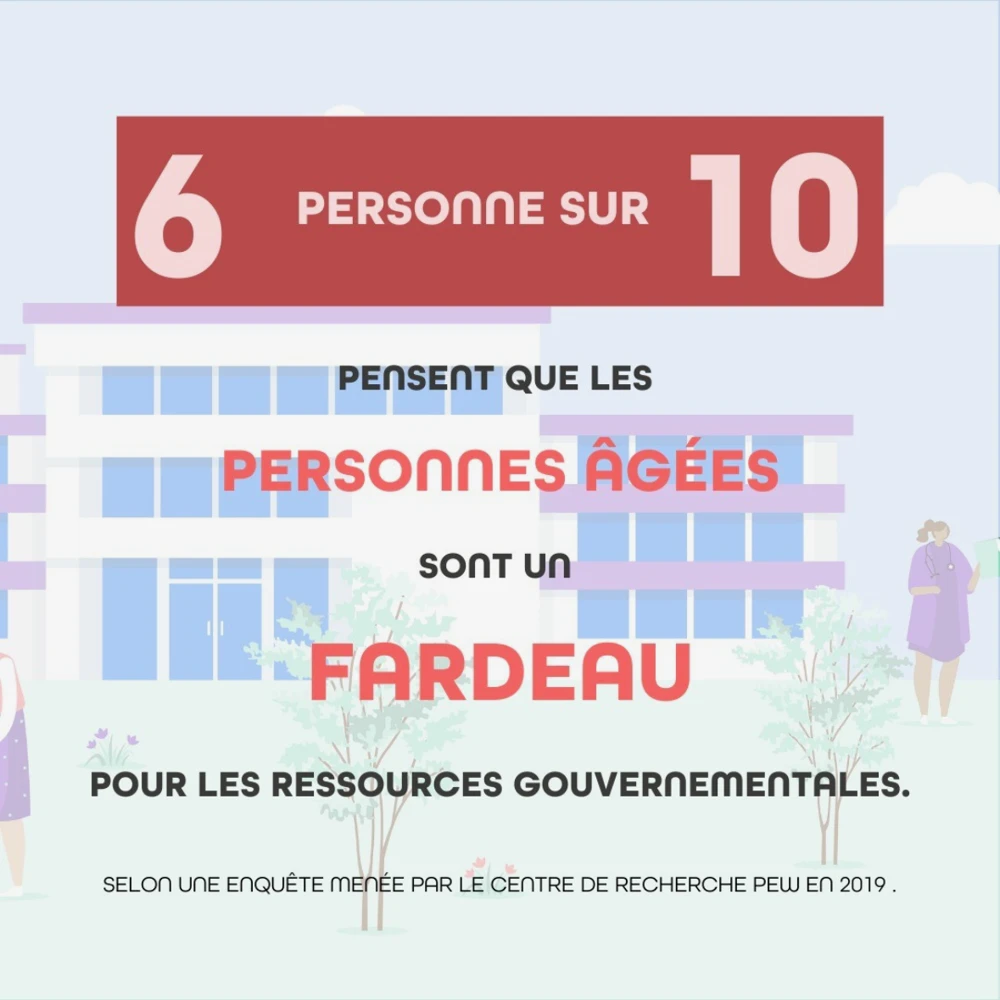
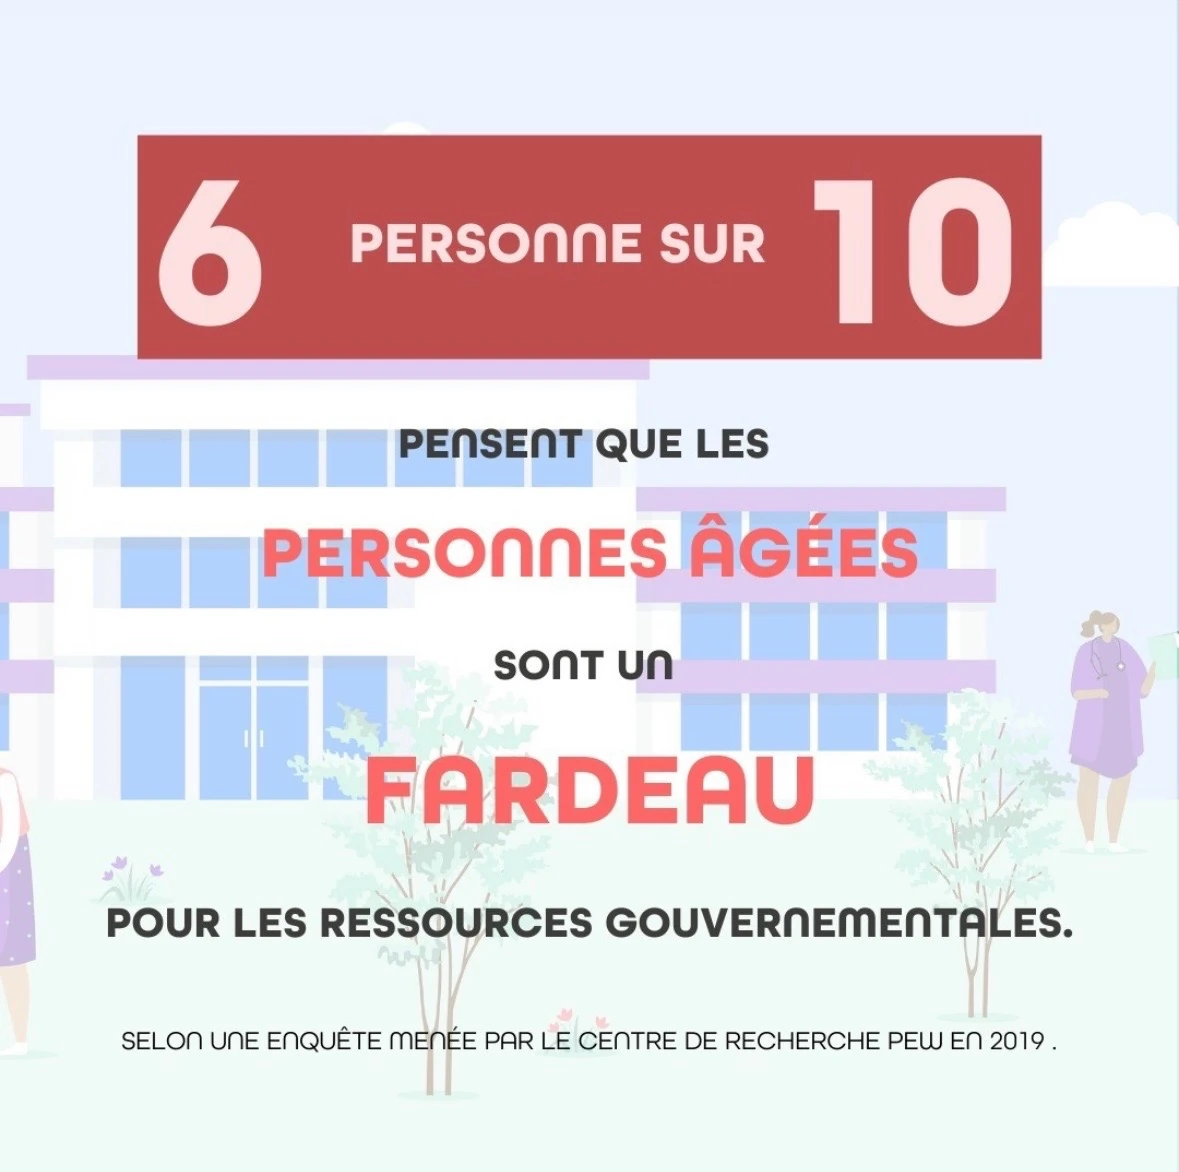
Replace ageism carousel with clean crops and remove slide counter

diff --git a/style.css b/style.css
@@ -91,7 +91,7 @@ main:has(>#contact){display:flex;flex-direction:column}
 .skill-button:focus-visible{outline:3px solid #b26379;outline-offset:3px;box-shadow:0 0 0 6px #f6e4e8}
 @media(prefers-reduced-motion:reduce){.skill-button{transition:none}.skill-button:hover{transform:none;box-shadow:4px 4px 0 #8da47c;outline:2px dashed #617854;outline-offset:2px}.skill-button:active,.skill-button.is-pressed{transform:none;box-shadow:inset 0 0 0 2px #435f49;background:#c4d6b6}.skill-button.pop{animation:none;box-shadow:inset 0 0 0 2px #435f49}}
 /* hero balance */
-.hero{grid-template-columns:minmax(0,.92fr) minmax(0,1.08fr);align-items:start;min-height:0;padding-bottom:100px}
+.hero{grid-template-columns:minmax(0,.92fr) minmax(0,1.08fr);align-items:start;min-height:0;padding-bottom:58px}
 .hero-art{max-width:none;margin-top:0}
 .hero-intro{max-width:520px}
 .character-stage{height:300px}
